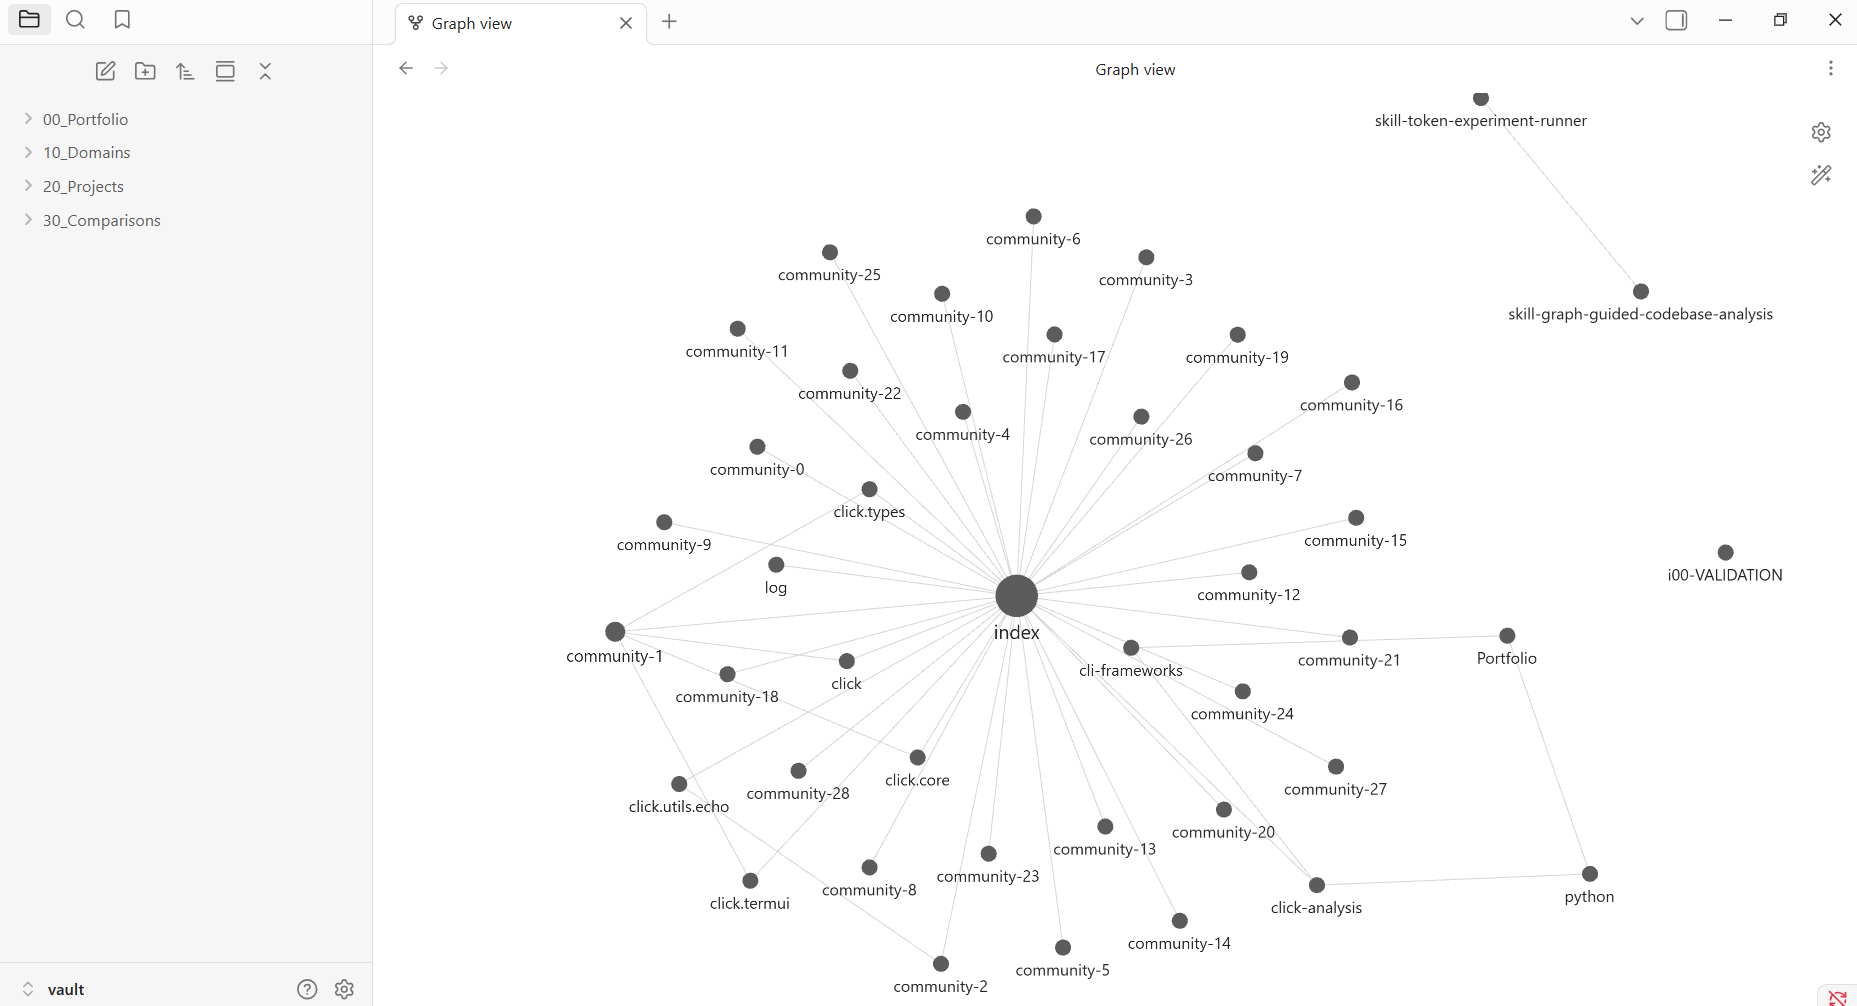
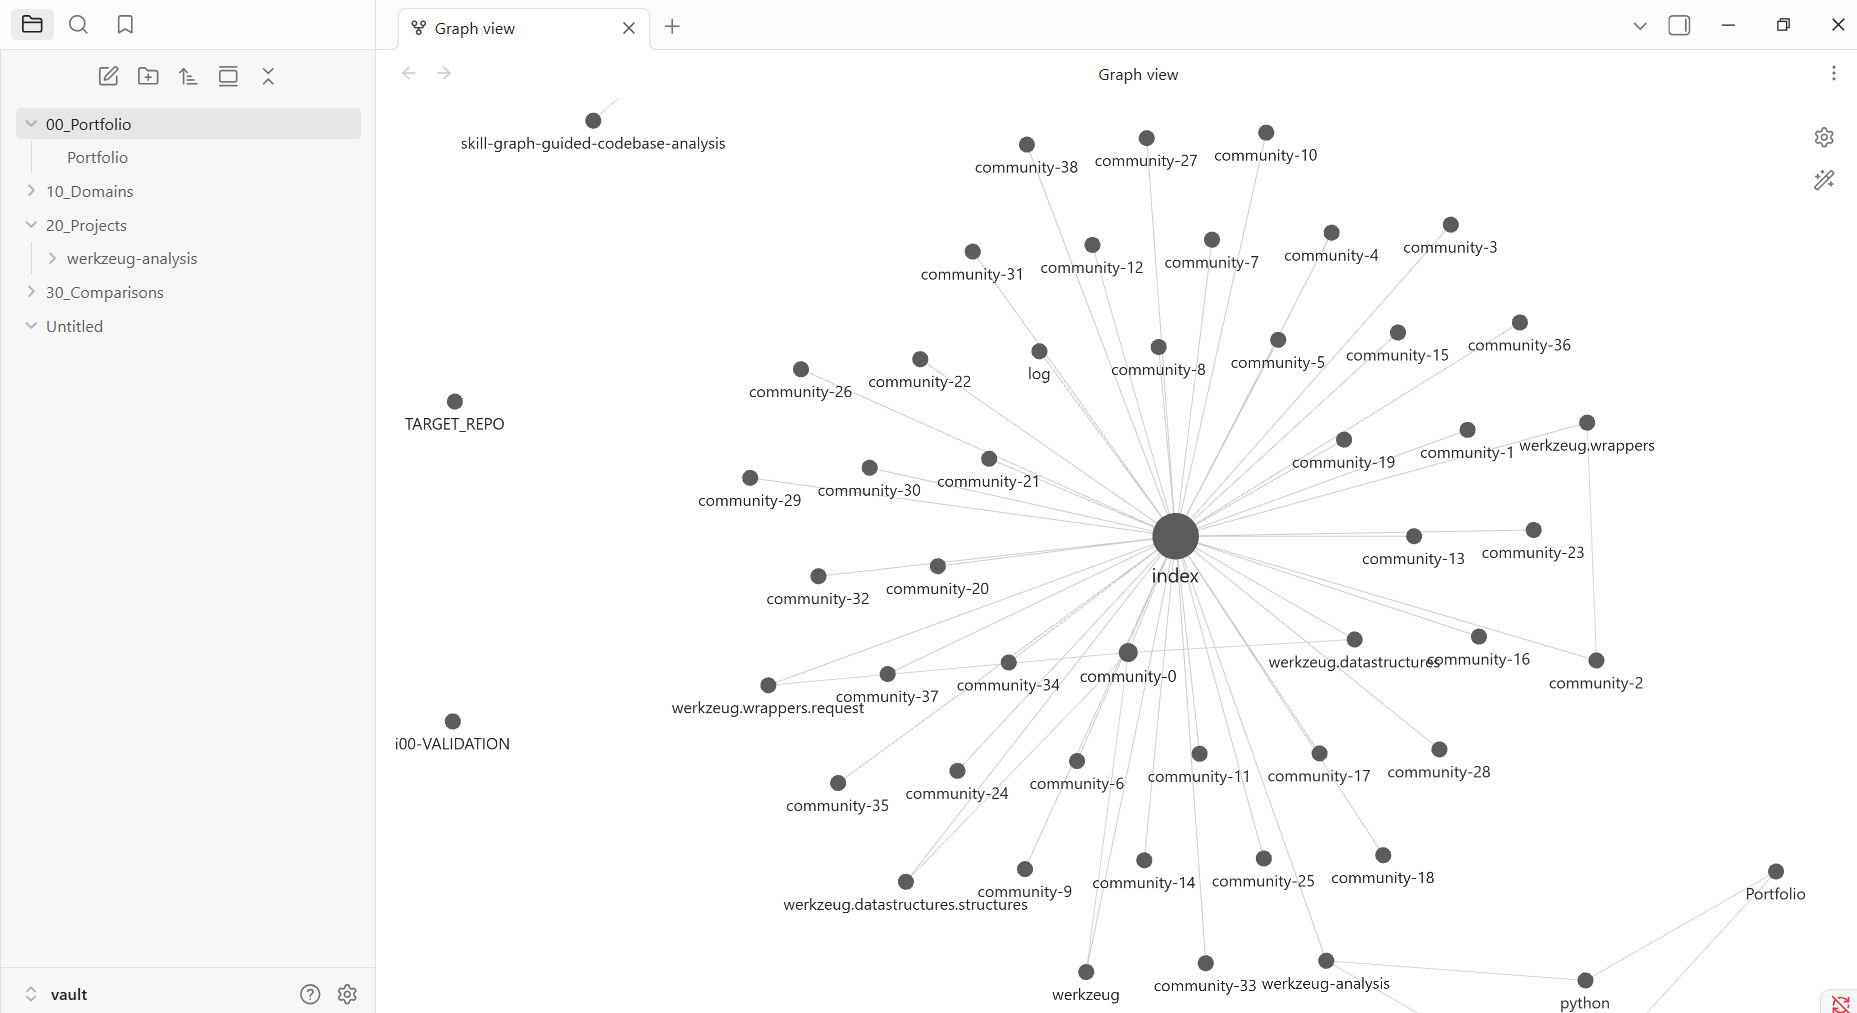
docs: add real werkzeug Obsidian screenshots, wire into README + report (T441/T452)
Replaced click-era vault screenshots with werkzeug captures: vault_graph (graph view), vault_index, wiki_datastructures (F-001 god-node), wiki_wrappers, wiki_structures. Re-added the README vault screenshot table (2x2) with accurate captions + fixed the prose (no werkzeug.http wiki page exists — hubs are graph-ranked). Added the graph-view figure to the submission report. Dropped stale wiki_core/wiki_echo + unused experiment_estimates.png.

diff --git a/docs/submission_report.html b/docs/submission_report.html
@@ -89,6 +89,10 @@ This project reverse-engineers an <em>unfamiliar</em> Python repository — <str
   <img src="../assets/communities.png" alt="dependency-community sizes">
   <figcaption>Dependency-community sizes (≥3 members) — a few real clusters over a long singleton tail.</figcaption>
 </figure>
+<figure>
+  <img src="../assets/vault_graph.png" alt="Obsidian graph view of the werkzeug vault">
+  <figcaption>The graph rendered as a navigable Obsidian vault — <code>index</code> at the centre, community clusters radiating out, one wiki page per key entity.</figcaption>
+</figure>
 
 <h2>Architectural findings</h2>
 <p>Eight hypotheses (7 god-node + 1 traceability gap); <strong>two source-validated</strong>, the rest reasoned-rejected:</p>